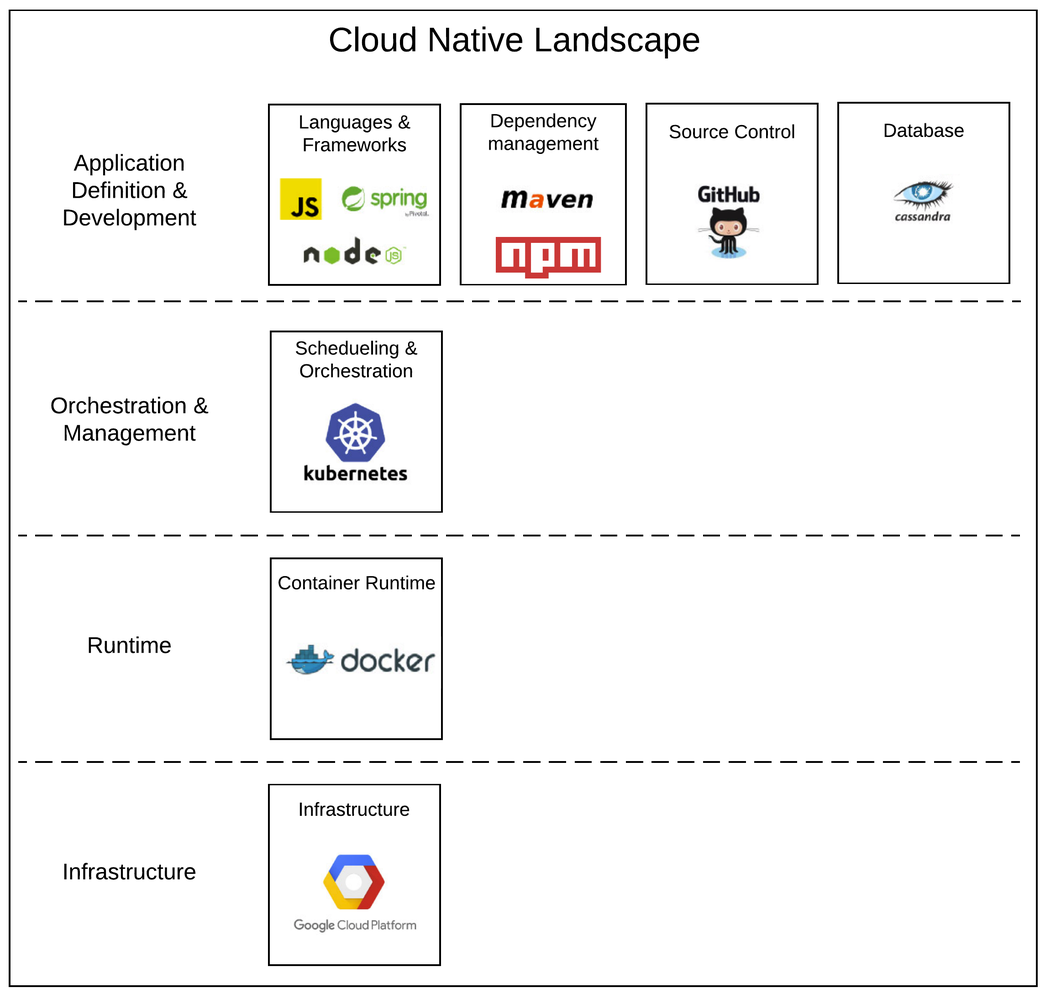
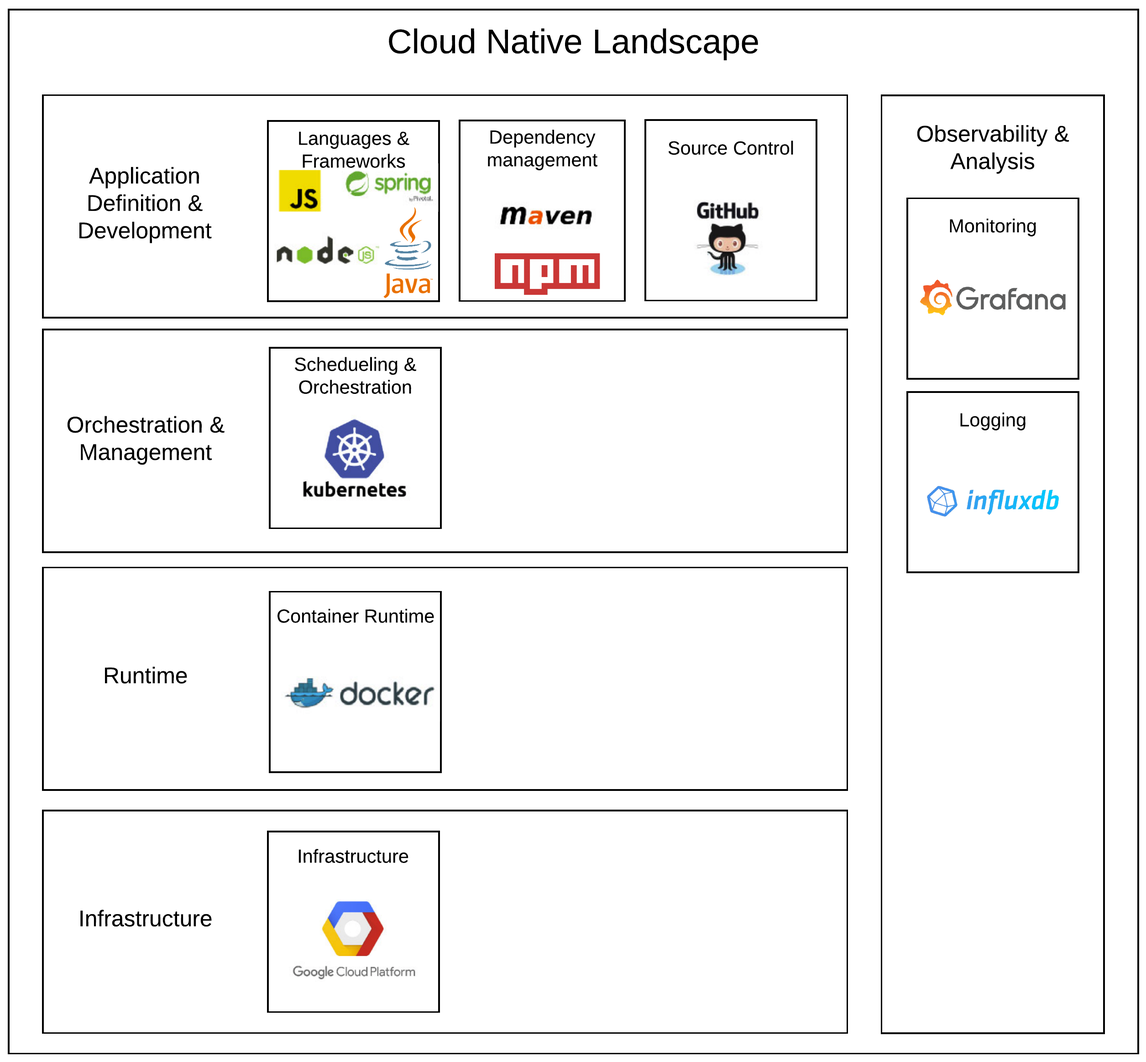
Added more cloud native description. Added summary. Updated landscape model.

diff --git a/sections/cloud_computing/cloud_computing.tex b/sections/cloud_computing/cloud_computing.tex
@@ -1,33 +1,25 @@
 \chapter{The Fundamentals of Cloud Computing}
 \label{ch:cloud_computing}
 
-\textit{In previous chapter the three predominant architectural patterns in design of distributed systems were described. This chapter will explain the possibilities cloud computing has created for development and distribution of applications. As well as the cloud native movement behind it, pushing for more resilient applications.}
+\textit{In the previous chapter the three predominant architectural patterns in design of distributed systems were described. It was concluded that the microservice architecture serves as a great architecture for creating resilient systems. The ideas behind microservice are grounded in cloud computing it is in this space many of the technologies enabling microservices have been developed. This chapter will therefore explain the possibilities cloud computing has created for development and distribution of applications, as well as the cloud native movement behind it, pushing companies towards microservice architectures.}
 
-Cloud Computing is both applications available over the internet, but also the hardware and system software that provide these services.
-Rather than scaling a single node vertically, Cloud Computing shifts focus and enables horizontal scaling of virtualized storage and network resources \cite{armbrust2010view}. Cloud computing enable applications to fulfil new requirements for rapid capacity up and down scaling, with the notion that available virtual resources are limitless \cite{sosinsky2010cloud}. At the same time virtualization facilitates reproducibility, resource isolation and transparency, recently revolutionised by the container abstraction, making it possible to create systems consisting of many small independent services. 
+Cloud computing is both applications available on the internet, but also the hardware and system software that provide these services.
+Rather than scaling a single node vertically, Cloud computing shifts focus and enables horizontal scaling of virtualized storage and network resources \cite{armbrust2010view}. Cloud computing enable applications to fulfil new requirements for rapid capacity up and down scaling, with the notion that available virtual resources are limitless \cite{sosinsky2010cloud}. At the same time virtualization facilitates reproducibility, resource isolation and transparency, recently revolutionised by the container abstraction, making it possible to create systems consisting of many small independent services. 
 
-According to Barrie Sosinsky \cite[p. 3 ]{sosinsky2010cloud} Cloud Computing sets new standards for system development and deployment, representing a real paradigm shift:
+According to Sosinsky \cite[p. 3 ]{sosinsky2010cloud}, cloud computing sets new standards for system development and deployment, representing a real paradigm shift:
 
 \tquote{Cloud computing represents a real paradigm shift in the way in which systems are deployed. The massive scale of cloud computing systems was enabled by the popularization of the Internet and the growth of some large service companies. Cloud computing makes the long-held dream of utility computing possible with a pay-as-you-go, infinitely scalable, universally available system. [...] That’s why cloud computing is revolutionary, even if the technology it is built on is evolutionary}{Sosinsky}{2010}
 
-Cloud Computing is a enabler for further evolving how distributed systems are designed, distributed, updated and accessed. 
-
-\note {
-\comment{Something about open source libraries and tools. Introduce Cloud Native}
-
-\comment{CNCF’s newly-announced reference architecture (below) to segment the stack and identify the prevailing projects, products and companies that enable organizations to build, test, deploy and scale cloud native applications}
-
-\url{https://medium.com/memory-leak/introducing-the-cloud-native-landscape-86c536411373}
-}
+Cloud computing is an enabler for further evolving how distributed systems are designed, distributed, updated and accessed. 
 
 \section{Defining Cloud Computing}
-This section will try and pin down what defines Cloud computing, determining a concise meaning for the term.
+This section will try to pin down what defines cloud computing, determining a concise meaning for the term.
 
-The National Institute of Standards and Technology (NIST) has defined Cloud Computing \cite{mell2011nist}:
+The National Institute of Standards and Technology (NIST) has defined cloud computing \cite{mell2011nist}:
 
 \defi{Cloud Computing (NIST)}{Cloud computing is a model for enabling ubiquitous, convenient, on-demand network access to a shared pool of configurable computing resources}{The NIST definition of cloud computing\cite{mell2011nist}}
 
-NIST characterizes cloud computing as a infrastructure that through a composition of hardware and software enable five essential characteristics:
+NIST characterizes cloud computing as an infrastructure that through a composition of hardware and software enable five essential characteristics:
 
 \textbf{On-demand self-service}\\
 Computing capabilities can be provisioned on-demand automatically without human interaction.
@@ -46,14 +38,14 @@ Resources are measured, providing transparency for both the provider and consume
 
 \subsection{Service Models}
 The cloud infrastructure is made available to the consumer through three different service models \cite{mell2011nist}. Service models are distinguished by the provided systems software abstraction and resource management level. The level of abstraction and resource management affect the available services, leaving increasing levels of management responsibilities to the provider \cite[p. 52]{armbrust2010view}.
-The three service models are depicted on figure \ref{fig:cloud_computing_definition_service_models}, where the different abstraction levels are visible.
+The three service models are depicted in Figure \ref{fig:cloud_computing_definition_service_models} where the different abstraction levels are visible.
 
 \textbf{Software as a Service (SaaS)}\\
-The provider makes the complete application available on the cloud infrastructure, for consumers to start up. The applications are accessible through thin client interfaces (eg. web browsers), or program interfaces. The consumer does not manage or control the underlying infrastructure and is therefore alleviated the burden of maintenance, operation and support costs \cite{youseff2008toward}.
+The provider makes the complete application available on the cloud infrastructure, for consumers to start up. The applications are accessible through thin client interfaces (eg. web browsers) or program interfaces. The consumer does not manage or control the underlying infrastructure and is therefore alleviated the burden of maintenance, operation and support costs \cite{youseff2008toward}.
 
 
 \textbf{Platform as a Service (PaaS)}\\
-The consumer can deploy consumer-created or acquired applications, controlling the deployment and potentially configuration settings for the hosting environment. Underlying cloud infrastructure network, servers storage, virtualization, operating system (OS) and runtime is provider managed \cite{youseff2008toward}.
+The consumer can deploy consumer-created or acquired applications, controlling the deployment and potentially configuration settings for the hosting environment. Underlying cloud infrastructure network, server storage, virtualization, operating system (OS) and runtime are provider managed \cite{youseff2008toward}.
 
 \textbf{Infrastructure as a Service (IaaS)}\\
 The consumer can provision processing, storage and network resources, but does not manage them. The consumer can run arbitrary software \cite{youseff2008toward}.
@@ -67,29 +59,31 @@ The consumer can provision processing, storage and network resources, but does n
 This thesis has used the IaaS service model, using the Kubernetes cluster scripts to start the cluster used during experiments, and creating dockerfiles with different types of image types (see section {sec:docker} and \ref{sec:cluster}).
 
 \subsection{Deployment Models}
-Cloud infrastructures are made available through four different deployment models, with distinct differences. The deployment model describe location and ownership of the infrastructure, determining who is responsible for the infrastructure. The deployment model affects the expected data confidentiality and security, the specified availability, and the available deployment size.
+Cloud infrastructures are made available through four different deployment models with distinct differences. The deployment model describes location and ownership of the infrastructure, determining who is responsible for the infrastructure. The deployment model affects the expected data confidentiality and security, the specified availability and the available deployment size.
 
-\textbf{Private cloud}\\
+\textbf{Private Cloud}\\
 Internal data center, provisioned for exclusive use to the owning organization.
 
-\textbf{Community cloud}\\
+\textbf{Community Cloud}\\
 The infrastructure is provisioned exclusively to a community of organizations with shared concerns to mission, security and policy etc.
 
-\textbf{Public cloud}\\
+\textbf{Public Cloud}\\
 The cloud infrastructure is provisioned to the general public, in a "Pay-as-you-go" manner.
 
-\textbf{Hybrid cloud}\\
+\textbf{Hybrid Cloud}\\
 A composition of several distinct cloud infrastructures.
 
 
-Armbrust et al. states that data confidentiality and auditability is one of the biggest obstacles, for a large-scale adoption of public cloud computing infrastructures \cite{armbrust2010view}. Internal consumer concerns and legislation prohibits some consumers from fully adopting public cloud computing infrastructures, forcing a private cloud deployment models, incurring an increased time frame on the adoption of a cloud infrastructure in some enterprises.
+Armbrust et al. states that data confidentiality and auditability is one of the biggest obstacles for a large-scale adoption of public cloud computing infrastructures \cite{armbrust2010view}. Internal consumer concerns and legislation prohibit some consumers from fully adopting public cloud computing infrastructures, forcing a private cloud deployment model, incurring an increased time frame on the adoption of a cloud infrastructure in some enterprises.
 
 \section{Cloud Native Landscape}
-There are a high amount of different aspects when working with cloud computing. The Cloud Native Computing Foundation has defined 5 overall levels: Infrastructure, Provisioning, Runtime, Orchestration \& Management and Application Definition \& Development. This project only involves four of the overall levels in the Cloud Native Landscape definition, seen on figure \ref{fig:cloud_computing_cloud_native_landscape}. The technologies utilized in this project is show on each level respectively.
+The Cloud Native Computing Foundation\footnote{\url{www.cncf.io}} (CNCF) is a foundation that supports the adoption of cloud native computing. They believe that a cloud native application is containerized, dynamically orchestrated and microservice oriented. The purpose of the foundation is to help non-technical companies transition into the cloud. CNCF supports several of the most utilized open source projects in the cloud computing space: Kubernetes and Docker among others.
+
+The Cloud Native Computing Foundation has defined five overall levels in the cloud computing stack: Infrastructure, Provisioning, Runtime, Orchestration \& Management and Application Definition \& Development. This project only involves four of the overall levels in the Cloud Native Landscape definition, seen in Figure \ref{fig:cloud_computing_cloud_native_landscape}. Besides the five overall levels the landscape also contains a Oberservability \& Analysis package. The technologies utilized in this project are shown on each level respectively.
 
 \begin{figure}[!htb]
 \begin{center}
-  \includegraphics[scale=0.11]{cloud_computing_cloud_native_landscape}  
+  \includegraphics[scale=0.15]{cloud_computing_cloud_native_landscape}  
   \caption{The utilized technology stack, the entire Cloud Native Landscape can be found on: \url{https://github.com/cncf/landscape}}
   \label{fig:cloud_computing_cloud_native_landscape}
 \end{center}
@@ -105,24 +99,35 @@ How the infrastructure is accessed and managed, and computing resources are rese
 Runtime defines OS, storage, container runtime and networking. Docker has been used throughout all projects created and deployed during this thesis (see section \ref{sec:virtualization}).
  
 \textbf{Orchestration \& Management}\\
-Orchestration \& Management is exactly that, orchestration tools as well as services coordinating and management tools. Kubernetes have been used for cluster creation and orchestration (see section \ref{sec:cluster}).
+Orchestration tools as well as services coordinating and management tools exist here. Kubernetes have been used for cluster creation and orchestration (see section \ref{sec:cluster}).
  
 \textbf{Application Definition \& Development}\\
-This level contains a lot of components. Here the application environment and it's dependencies are listed including: databases, language and frameworks, source control management, dependency management, continuous integration (CI), continuous delivery among other aspects.
+This level contains a lot of components. Here the application environment and its dependencies are listed including: databases, language and frameworks, source control management, dependency management, continuous integration (CI), continuous delivery (CD) among other aspects.
+
+NodeJS is a JavaScript runtime webserver. NodeJS has been used to develop the test tool used in chapter \ref{ch:experiment}.
+
+Spring Boot is a Java library that makes it possible to create Spring production-grade applications quickly. Spring Boot has been used to develop the test application load tested in chapter \ref{ch:experiment}.
+
+\textbf{Observability \& Analysis}\\
+This package contains tools that helps monitor and analyse system behaviour.
+
+InfluxDB is the default time series database used in a Kubernetes cluster. InfluxDB is automatically set up to subscribe to event data from the cluster.
+
+Grafana is the default time series analytics tool used in a Kubernetes cluster. Grafana visualizes data from the InfluxDB database in the cluster and provides a extensive user interface making it possible to monitor the cluster. Grafana has been utilized to gather data and monitor cluster configurations when conducting experiments.
 
 \section{Virtualization, Hypervisors and Containers}
 \label{sec:virtualization}
-Resource pooling enables the remaining four essential characteristics of Cloud Computing: On-demand self-service, broad network access, rapid elasticity and measured service \cite{bittman2009server}. Resource pools are split  between consumers through a multitenancy layer, that enables the cloud infrastructure to distribute one physical server between several consumers \cite{krebs2012architectural}. This multitenancy layer is created with hypervisor and container technologies that both provide virtualization, these technologies are fundamental for Cloud Computing. Virtualization makes it possible to create several emulations on one server, that has the same attributes and characteristics as the physical system. This emulation has a memory address space, processor resources and device I/O, and is isolated from the rest of the system, utilizing it's reserved amount of resources. This section will explain both technologies, their differences and why container technology has gained preference over VM's in the past few years.
+Resource pooling enables the remaining four essential characteristics of cloud computing: On-demand self-service, broad network access, rapid elasticity and measured service \cite{bittman2009server}. Resource pools are split  between consumers through a multitenancy layer that enables the cloud infrastructure to distribute one physical server between several consumers \cite{krebs2012architectural}. This multitenancy layer is created with hypervisor and container technologies that both provide virtualization, these technologies are fundamental for cloud computing. Virtualization makes it possible to create several emulations on one server that has the same attributes and characteristics as the physical system. This emulation has a memory address space, processor resources and device I/O, and is isolated from the rest of the system, utilizing its reserved amount of resources. This section will explain both technologies, their differences and why container technology has gained preference over VM's in the past few years.
 
 \subsection{Hypervisors}
 Hypervisors provide VM access to system resources. According to \cite[p.~100]{sosinsky2010cloud} two types of hypervisors exist, differentiated by whether the hypervisor is on top of a host OS or not.
 
 \begin{itemize}
 	\item \textbf{Type 1 Native:} The hypervisor has no host OS.
-	\item \textbf{Type 2 Hosted:} The hypervisor is installed on top of a host OS. (seen on figure \ref{fig:cloud_computing_definition_virtualization})
+	\item \textbf{Type 2 Hosted:} The hypervisor is installed on top of a host OS (seen in Figure \ref{fig:cloud_computing_definition_virtualization}).
 \end{itemize}
 
-Type 1 VM's have no host operating system below them and are running directly on a bare system, completely simulating the hardware that it is running on. Type 1 virtualization is therefore called full virtualization. Type 2 VM's has a underlying host operating system, with a software interface mapping guest OSs system calls to the host OS. Hypervisor virtualization is machine-level virtualization, because it attempts to emulate a complete computing environment \cite{fink2014docker}. This makes this type of virtualization very resource intensive. A hypervisor approach is ideal when applications running on a single server require different OS's, and need access to a complete computing environment.
+Type 1 VMs have no host operating system below them and are running directly on a bare system, completely simulating the hardware that it is running on. Type 1 virtualization is therefore called full virtualization. Type 2 VMs have an underlying host operating system, with a software interface mapping guest OSs system calls to the host OS. Hypervisor virtualization is machine-level virtualization, because it attempts to emulate a complete computing environment \cite{fink2014docker}. This makes this type of virtualization very resource intensive. A hypervisor approach is ideal when applications running on a single server require different OSs, and need access to a complete computing environment.
 
 \begin{figure}[!htb]
 	\centering 
@@ -132,7 +137,7 @@ Type 1 VM's have no host operating system below them and are running directly on
 \end{figure}
 
 \subsection{Containers}
-Containers always share OS with the host, container deployments are therefore very small making it possible to have hundreds of containers running simultaneous on a single server. Containers try to share resources among running instances, by sharing RAM, disk space and kernel. Containers start up in seconds, while VMs take minutes to boot \cite{dockerFAQ}. Container virtualization is categorized as system-level virtualization, due to the the containers operating at the process level. Container virtualization is know from the Linux kernel library Linux Container(LXC). LXC gives the possibility to create processes that are sand boxed from one another, controlling their available resources. Docker is the most popular container technology, utilizing LXC adding high-level tools on top. These tools further enhance container technology by improving usability and accessibility.
+Containers always share OS with the host, container deployments are therefore very small, making it possible to have hundreds of containers running simultaneously on a single server. Containers try to share resources among running instances, by sharing RAM, disk space and kernel. Containers start up in seconds, while VMs take minutes to boot \cite{dockerFAQ}. Container virtualization is categorized as system-level virtualization, due to the containers operating at the process level. Container virtualization is known from the Linux kernel library Linux Container (LXC). LXC gives the possibility to create processes that are sand boxed from one another, controlling their available resources. Docker is the most popular container technology, utilizing LXC adding high-level tools on top. These tools further enhance container technology by improving usability and accessibility.
 
 Due to containers natural small size, each service can be packed in its own container, providing excellent separation and isolation from other service executables, configurations, libraries and lifecycles. Each service can be packed separately, preventing services from affecting or conflicting with each other. Because each service doesn't need to be composed with the remaining services and is almost independent of the production environment (besides being the correct platform), immutable containers can be created \cite{kubernetes_what_is}. This gives a consistent environment from development into production, removing possible surprise challenges in the production environment.
 
@@ -149,32 +154,32 @@ Modern applications often depend on many existing components, relying on other s
 
 \subsection{Docker}
 \label{sec:docker}
-Docker is a open source project that provide developers with a high-level tool to manage container virtualization. Besides the earlier explained advantages with container virtualization itself, docker provides several benefits, making container virtualization even more usable. Docker introduces many indispensable features for big-scale application projects \cite{dockerFAQ}. The core features of docker are explained below:
+Docker is an open source project that provides developers with a high-level tool to manage container virtualization. Besides the earlier explained advantages with container virtualization itself, docker provides several benefits, making container virtualization even more usable. Docker introduces many indispensable features for big-scale application projects \cite{dockerFAQ}. The core features of docker are explained below:
 
-\textbf{Portable deployment across machines}\\
-By bundling the application with all its dependencies, and creating a machine-specific abstraction, docker makes it easy to run the exact same container on different machines, with different configurations.
+\textbf{Portable Deployment across Machines}\\
+By bundling the application with all its dependencies, and creating a machine-specific abstraction, docker makes it easy to run the exact same container on different machines with different configurations.
 
 \textbf{Application-centric}\\
-Docker centralizes the application, in the deployment phase. Reducing friction when deploying the application. According to Burns et al. \cite{burns2016borg} this has several benefits, improving application deployment and introspection.
+Docker centralizes the application in the deployment phase. Reducing friction when deploying the application. According to Burns et al. \cite{burns2016borg} this has several benefits, improving application deployment and introspection.
 
-\textbf{Automatic build}\\
-Docker provides the dockerfile abstraction, making it possible to automatically assemble containers. A key feature for enabling many of the cloud infrastructure advantages. The dockerfile is a simple file that contains instructions on which libraries and deployment specific actions that are needed for successfully starting the containerized application.
+\textbf{Automatic Build}\\
+Docker provides the dockerfile abstraction, making it possible to automatically assemble containers. A key feature for enabling many of the cloud infrastructure advantages. The dockerfile is a simple file that contains instructions about which libraries and deployment specific actions that are needed for successfully starting the containerized application.
 
 \textbf{Versioning}\\
-By introducing versioning of containers, docker makes it possible to track changes, introducing the many advantages known from git. Being able to see changes done to the container, control push of changes, introducing traceability all the way from development to production servers.
+By introducing versioning of containers, docker makes it possible to track changes, introducing the many advantages known from git\comment{Oveveje at specificer det}. Being able to see changes done to the container, control push of changes, introducing traceability all the way from development to production servers.
 
-\textbf{Component re-use}\\
+\textbf{Component Re-use}\\
 The docker images support component re-use, a dockerfile can be used as base image in other dockerfiles, providing a base for more specialized components.
 
 \textbf{Sharing}\\
 Docker images are accessible on the Docker Hub, making it possible to share useful images, and take advantage of images shared. The docker hub also makes it possible to store images privately, still gaining the accessibility (eg. internally in an organisation) hindering outsiders from utilizing the image.
 
-\textbf{Tool ecosystem}\\
-Docker makes it possible to automate and customize the creation and deployment of containers, through an simple API.
+\textbf{Tool Ecosystem}\\
+Docker makes it possible to automate and customize the creation and deployment of containers through a simple API.
 
 \section{Cluster Management}
 \label{sec:cluster}
-Kubernetes is a container-management tool, that watches for changes in the cluster, keeping it in a steady state \cite{burns2016borg}. Kubernetes is open source but has mainly been developed by Google, that has extensive experience with running their infrastructure based on containers. Kubernetes has been developed with outset in two predecessor container-management tools developed internally at Google. Kubernetes main design goal is to ease deployment and management of complex distributed systems \cite{kubernetes_frontpage}. Kubernetes key features are described below:
+Kubernetes is a container-management tool that watches for changes in the cluster, keeping it in a steady state \cite{burns2016borg}. Kubernetes is open source but has mainly been developed by Google that has extensive experience with running their infrastructure based on containers. Kubernetes has been developed with outset in two predecessor container-management tools developed internally by Google. Kubernetes main design goal is to ease deployment and management of complex distributed systems \cite{kubernetes_frontpage}. Kubernetes key features are described below:
 
 \textbf{Automatic Binpacking}\\
 Kubernetes places containers on servers according to the amount of resources needed by the container, maximizing utilization of server resources, with focus on availability.
@@ -185,71 +190,15 @@ Containers are checked with user-defined health checks, making sure they are ope
 \textbf{Horizontal Scale}\\
 Kubernets can scale service horizontally automatically and manually.
 
-\textbf{Service discovery and load balancing}\\
+\textbf{Service Discovery and Load Balancing}\\
 Containers are given a unique up address and a single DNS name, making them discoverable across the network.
 
 \textbf{Automated Rollouts and Backups}\\
-Rollouts of new configurations are done progressively while monitoring the application, making sure that there are some working instances at all times. Kubernetes can rollback configurations if working incorrectly.
+Rollouts of new configurations are done progressively while monitoring the application, making sure that there are some working instances at all times. Kubernetes can roll back configurations if working incorrectly.
 
 \textbf{Storage Orchestration}\\
 Kubernetes can automatically orchestrate storage, supporting local and remote storage options.
 
-\note{
-\url{https://github.com/kubernetes/kubernetes/tree/master/examples/storage/cassandra}  
-This example also uses some of the core components of Kubernetes:\\
-Pods\\
-Services\\
-Replication Controllers\\
-Stateful Sets\\
-Daemon Sets\\
 
-\begin{figure}[!htb]
-	\centering 
-		 \includegraphics[scale=0.4]{cloud_computing_kubernetes_architecture}
-	  \caption{From docker documentation \url{https://kubernetes.io/docs/tutorials/kubernetes-basics/cluster-intro/}}
-  \label{fig:cloud_computing_kubernetes_architecture}
-\end{figure}
-
-
-\comment{Kig på den her, for input til kubernetes afsnit}
-\url{https://github.com/kubernetes/community/blob/master/contributors/design-proposals/architecture.md}
-
-\comment{Jeg tror det er vigtigt, gennemgående, at få lagt mere vægt på hvorfor vi snakker om det her i forhold til opgavens fokus.}
-DevOps
-
-\comment{Kig noget mere på hvad de mener med de her ting, og hvad der er indforstået med cloud native}
-\url{https://www.cncf.io/about/charter/}
-
-\comment{Kig på cloud native, brug gerne "The cloud-native future - O'Reilly Media" downloadet som pdf i Cloud litterature mappen}
-
-\comment{nævn deployments, brugt i forsøget. Kubernetes documentation on scaling a deployment \url{https://kubernetes.io/docs/concepts/workloads/controllers/deployment/\#scaling-a-deployment}}.
-}
-
-
-\note {
-\comment{Mention the specification of processor/core resources, either here or in GCP section}
-
-\section{Google Cloud Platform}
-\label{sec:GCP}
-The Google Cloud Platform is a public cloud provider
-
-makes it possible to create and 
-
-\comment{Forklar lidt omkring zoner, og hvad det betyder \url{https://cloud.google.com/compute/docs/regions-zones/regions-zones?hl=en_US}}.
-
-
-\section{Webservers}
-\comment{Write something clever about web servers}
-
-\subsection{NodeJs}
-\label{sec:node}
-\comment{Write something clever about NodeJS}
-
-\subsection{Spring boot}
-\label{sec:spring}
-\comment{Write something clever about spring boot}
-\url{https://projects.spring.io/spring-boot/}
-
-It makes it possible to create docker files qucikly and directly using maven.
-\url{https://spring.io/guides/gs/spring-boot-docker/}
-}
+\section{Summary}
+Many of cloud computings defining characteristics are tremendously important for microservices and therefore very interesting when looking at resilience in distributed applications. The container abstraction makes it possible to create truly separated environments, facilitating reproducibility and transparency. Cluster management gives us the ability to dynamically orchestrate containers adding more capacity and ensuring redundancy, improving the availability of a given system.
